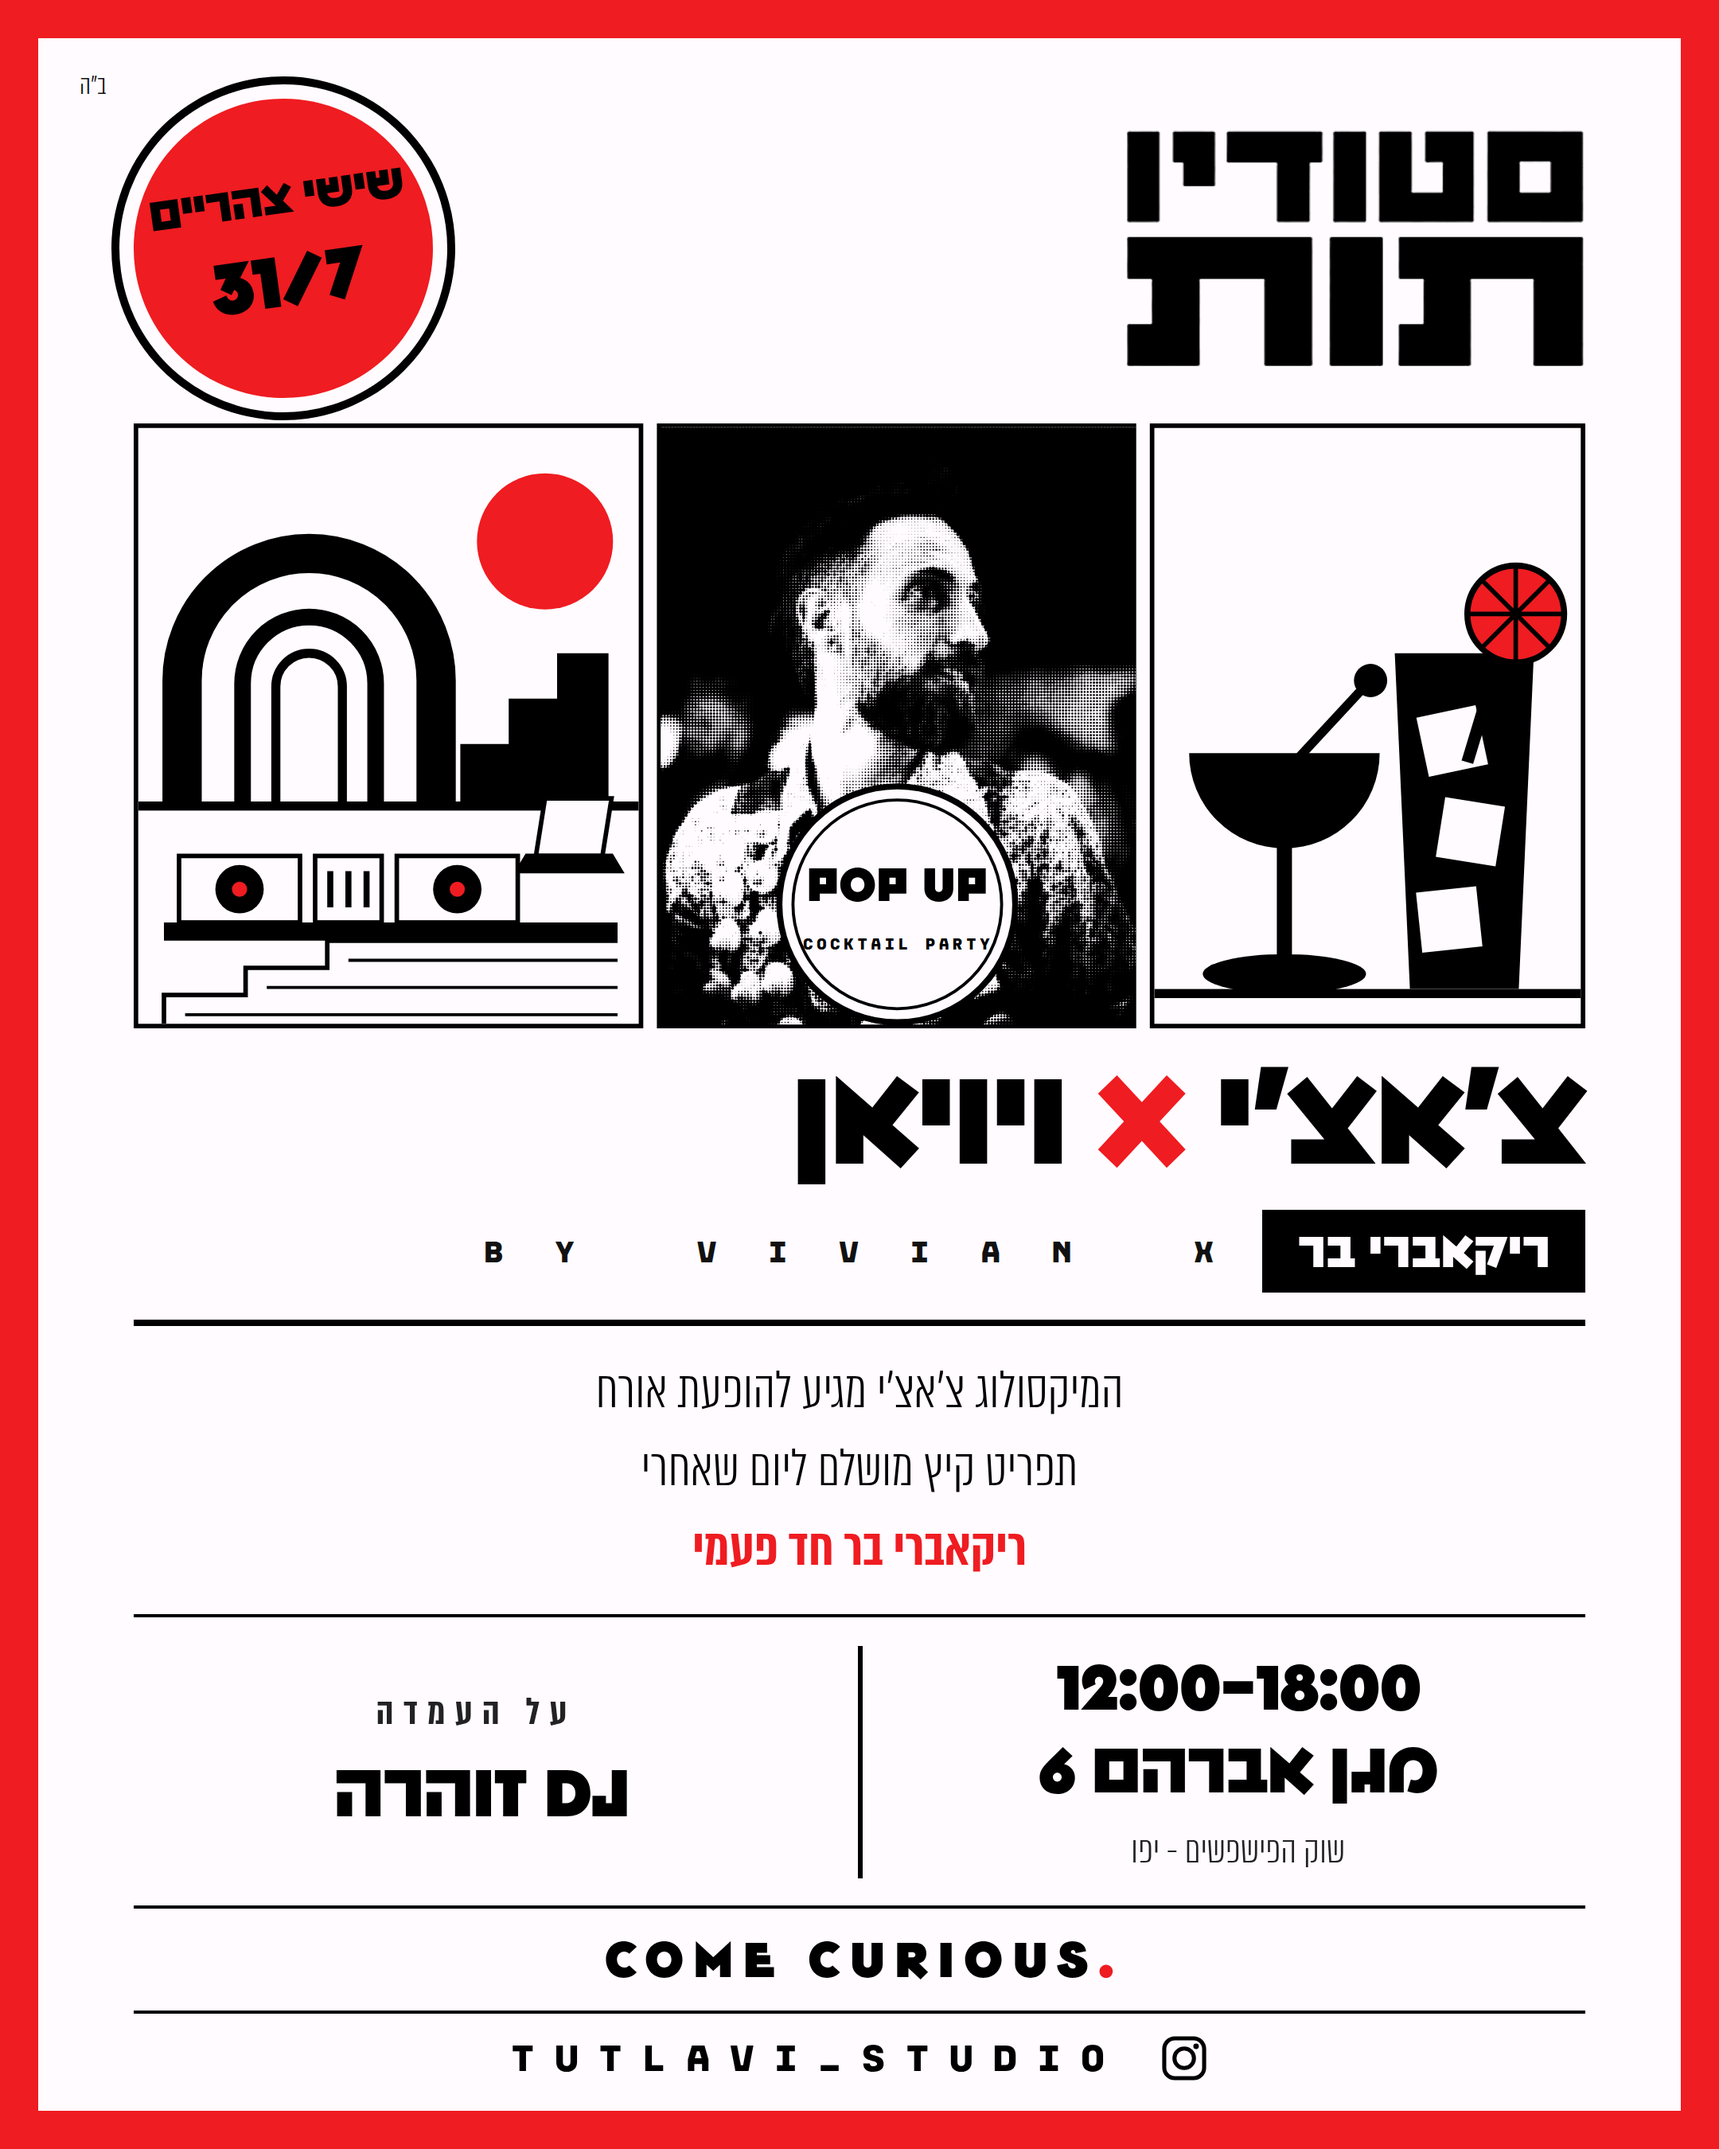
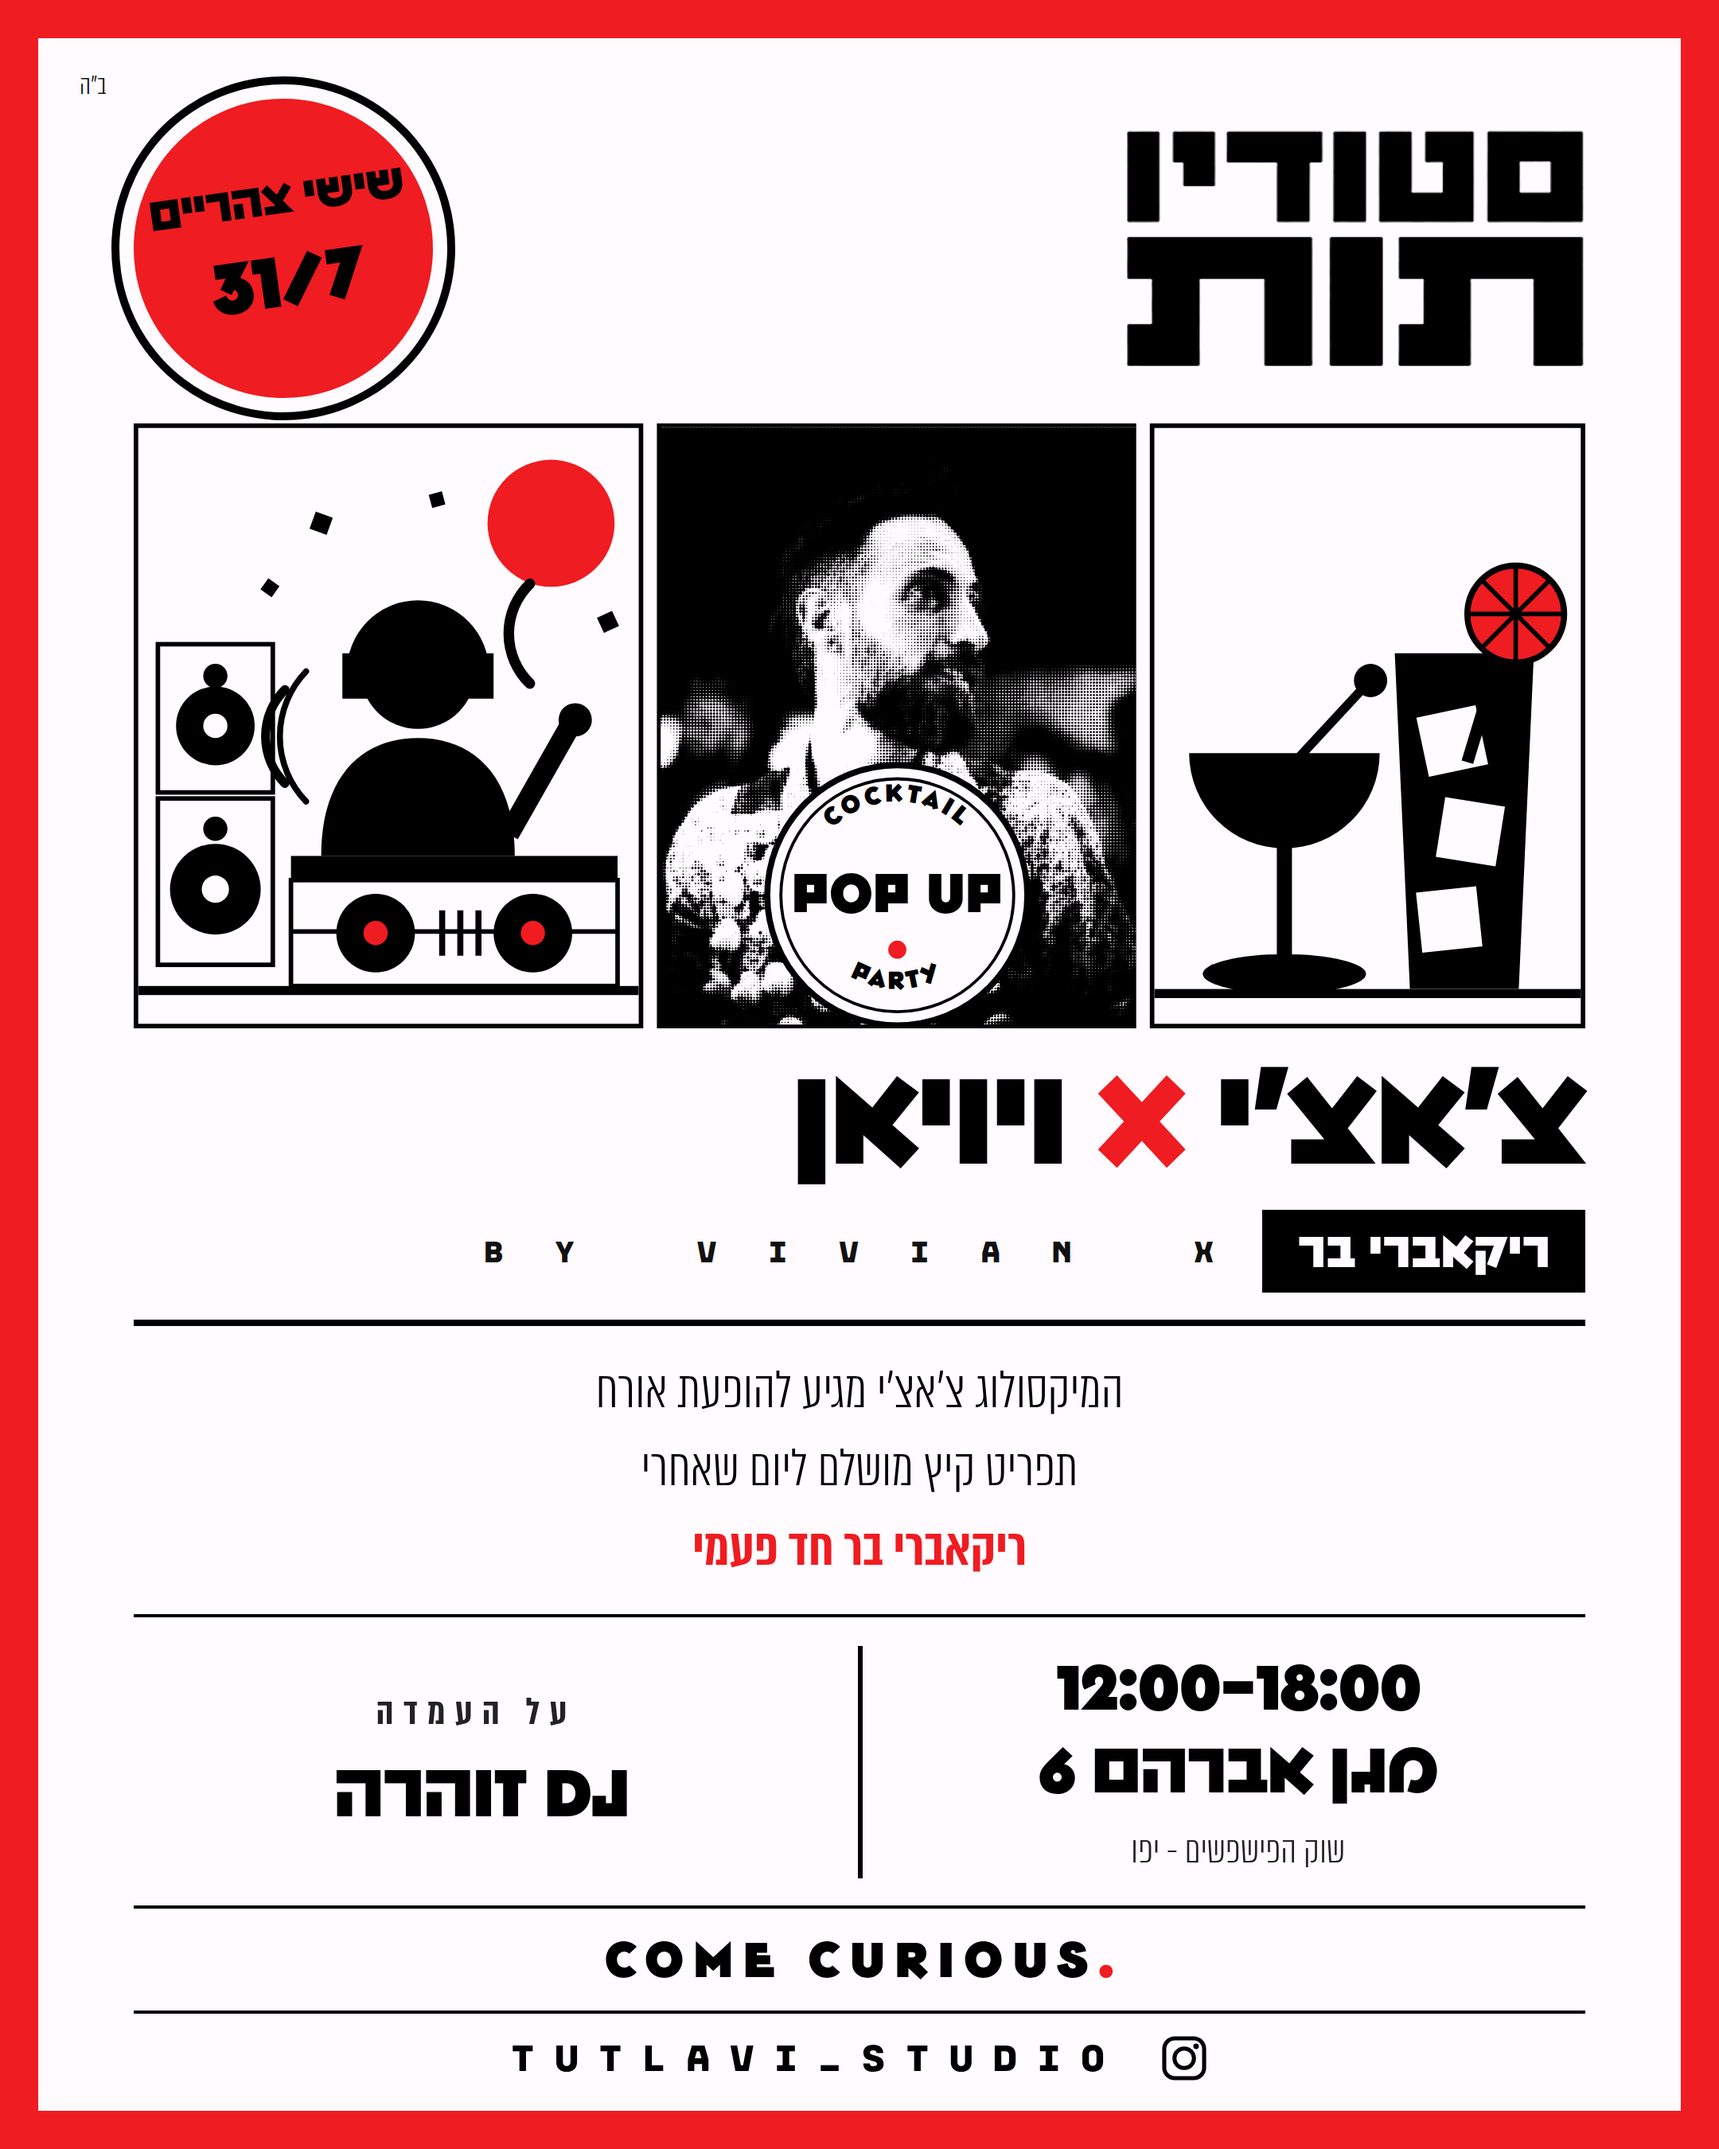
poster: party DJ booth, giant curved badge, two output variants
- replace the arch + deck row with an explicit DJ scene: speaker stack,
  headphoned silhouette with a raised hand, twin turntables on a booth,
  sound waves and confetti
- badge text is now set on arcs (COCKTAIL over the top, PARTY under the
  bottom) with POP UP large in the middle
- illustrated variant clears the still-life behind the badge and blows
  the badge up to nearly the full panel
- one source renders both: default = portrait panel, .illus = badge panel
- drop the tones PNG now that the core palette is the chosen direction

Claude-Session: https://claude.ai/code/session_01AhfEANtPutTF2tRQEqNaFG

Changed region(s): [[0.062, 0.2178, 0.3722, 0.4667], [0.4343, 0.3422, 0.6204, 0.4978]]

diff --git a/media/brand/poster-chachi.html b/media/brand/poster-chachi.html
@@ -72,6 +72,11 @@
   .f-olive{fill:var(--olive)} .s-olive{stroke:var(--olive)}
   .f-deep{fill:var(--deep)}
 
+  /* middle-panel variants */
+  .v-illus{display:none}
+  .poster.illus .v-photo{display:none}
+  .poster.illus .v-illus{display:inline}
+
   /* optional run: riso tones (clay + bottle green) */
   .poster.tones{ --clay:#c2603c; --olive:#3f6b52; --deep:#264234; }
   .poster.tones .lede b{color:var(--clay)}
@@ -93,56 +98,102 @@
       <rect x="673.5" y="1.5" width="285" height="397"/>
     </g>
 
-    <!-- ================= LEFT PANEL: arch · red sun · stairs · DJ booth ================= -->
+    <!-- ================= LEFT PANEL: DJ booth ================= -->
     <clipPath id="cL"><rect x="3" y="3" width="331" height="394"/></clipPath>
     <g clip-path="url(#cL)">
-      <!-- red sun -->
-      <circle cx="272" cy="78" r="45" fill="#ef1c21"/>
-      <!-- concentric arch -->
-      <path d="M32 250 V170 a84 84 0 0 1 168 0 V250" fill="none" stroke="#000"     stroke-width="26"/>
-      <path class="s-clay" d="M72 250 V172 a44 44 0 0 1  88 0 V250" fill="none" stroke="#c2603c" stroke-width="11"/>
-      <path class="s-olive" d="M94 250 V174 a22 22 0 0 1  44 0 V250" fill="none" stroke="#3f6b52" stroke-width="6"/>
-      <!-- clay stairs -->
-      <path class="f-clay" d="M216 250 V212 h32 V182 h32 V152 h34 V250 Z" fill="#c2603c"/>
-      <!-- upper floor -->
-      <rect x="3" y="250" width="331" height="6" fill="#000"/>
+      <!-- red sun / disco light -->
+      <circle cx="276" cy="66" r="42" fill="#ef1c21"/>
 
-      <!-- ---- DJ booth ---- -->
-      <!-- laptop -->
-      <g stroke="#000" stroke-width="3">
-        <path d="M266 286 L310 286 L316 248 L272 248 Z" fill="#fffbff"/>
-        <path class="f-olive" d="M260 286 L316 286 L322 296 L254 296 Z" fill="#3f6b52"/>
+      <!-- speaker stack -->
+      <g stroke="#000" stroke-width="3" fill="#fffbff">
+        <rect x="16" y="146" width="76" height="98"/>
+        <rect x="16" y="248" width="76" height="110"/>
       </g>
-      <!-- deck 1 -->
-      <g stroke="#000" stroke-width="3">
-        <rect x="30" y="286" width="80" height="44" fill="#fffbff"/>
-        <rect x="120" y="286" width="44" height="44" fill="#fffbff"/>
-        <rect x="174" y="286" width="80" height="44" fill="#fffbff"/>
+      <circle cx="54" cy="200" r="26" fill="#000"/><circle cx="54" cy="200" r="8" fill="#fffbff"/>
+      <circle cx="54" cy="167" r="8"  fill="#000"/>
+      <circle cx="54" cy="308" r="30" fill="#000"/><circle cx="54" cy="308" r="9" fill="#fffbff"/>
+      <circle cx="54" cy="268" r="8"  fill="#000"/>
+
+      <!-- DJ silhouette behind the booth -->
+      <path d="M124 286 C124 232 152 208 188 208 C224 208 252 232 252 286 Z" fill="#000"/>
+      <path d="M242 268 L284 194 L296 201 L254 275 Z" fill="#000"/>
+      <circle cx="292" cy="196" r="11" fill="#000"/>
+      <circle cx="188" cy="164" r="38" fill="#000"/>
+      <path d="M146 164 a42 42 0 0 1 84 0" fill="none" stroke="#000" stroke-width="10"/>
+      <rect x="138" y="152" width="18" height="30" fill="#000"/>
+      <rect x="220" y="152" width="18" height="30" fill="#000"/>
+
+      <!-- sound waves -->
+      <g fill="none" stroke="#000" stroke-linecap="round">
+        <path d="M262 172 a46 46 0 0 1 0 -66" stroke-width="7"/>
+        <path d="M280 186 a66 66 0 0 0 0 -94" stroke-width="5" opacity="0"/>
+        <path d="M100 176 a44 44 0 0 0 0 62" stroke-width="6"/>
+        <path d="M114 164 a62 62 0 0 0 0 86" stroke-width="4"/>
       </g>
-      <circle cx="70"  cy="308" r="16" fill="#000"/><circle cx="70"  cy="308" r="5" fill="#ef1c21"/>
-      <circle cx="214" cy="308" r="16" fill="#000"/><circle cx="214" cy="308" r="5" fill="#ef1c21"/>
-      <g class="s-clay" stroke="#c2603c" stroke-width="4"><path class="s-clay" d="M130 296 v24 M142 296 v24 M154 296 v24"/></g>
-      <!-- booth front -->
-      <rect x="20" y="330" width="300" height="12" fill="#000"/>
-      <!-- stacked steps -->
-      <path d="M320 342 H128 V360 H74 V378 H20 V397" fill="none" stroke="#000" stroke-width="3"/>
-      <g stroke="#000" stroke-width="2">
-        <path d="M320 355 H142 M320 373 H88 M320 391 H34"/>
+
+      <!-- booth -->
+      <rect x="104" y="286" width="216" height="16" fill="#000"/>
+      <rect x="104" y="302" width="216" height="70" fill="#fffbff" stroke="#000" stroke-width="3"/>
+      <g stroke="#000" stroke-width="3"><path d="M104 336 H320"/></g>
+      <!-- turntable on the booth face -->
+      <circle cx="160" cy="337" r="26" fill="#000"/><circle cx="160" cy="337" r="8" fill="#ef1c21"/>
+      <circle cx="264" cy="337" r="26" fill="#000"/><circle cx="264" cy="337" r="8" fill="#ef1c21"/>
+      <g class="s-clay" stroke="#c2603c" stroke-width="4"><path d="M204 322 v30 M216 322 v30 M228 322 v30"/></g>
+
+      <!-- confetti -->
+      <g fill="#000">
+        <rect x="118" y="60"  width="12" height="12" transform="rotate(20 124 66)"/>
+        <rect x="196" y="46"  width="9"  height="9"  transform="rotate(-15 200 50)"/>
+        <rect x="86"  y="104" width="9"  height="9"  transform="rotate(35 90 108)"/>
+        <rect x="308" y="126" width="11" height="11" transform="rotate(-25 313 131)"/>
       </g>
+
+      <!-- floor -->
+      <rect x="3" y="372" width="331" height="6" fill="#000"/>
     </g>
 
-    <!-- ================= MIDDLE PANEL: צ'אצ'י — halftone portrait ================= -->
+    <!-- ================= MIDDLE PANEL ================= -->
     <clipPath id="cM"><rect x="348.5" y="2.5" width="314" height="395"/></clipPath>
-    <g clip-path="url(#cM)">
-      <image href="chachi-halftone.png" x="346" y="0" width="320" height="400"
-             preserveAspectRatio="xMidYMid slice"/>
+
+    <!-- version A: halftone portrait + small badge -->
+    <g class="v-photo">
+      <g clip-path="url(#cM)">
+        <image href="chachi-halftone.png" x="346" y="0" width="320" height="400"
+               preserveAspectRatio="xMidYMid slice"/>
+      </g>
+      <g transform="translate(505 312)">
+        <circle r="86" fill="#fffbff" stroke="#000" stroke-width="4"/>
+        <circle r="77" fill="none" stroke="#000" stroke-width="2"/>
+        <path id="arcTopS" d="M -62 0 A 62 62 0 0 1 62 0" fill="none"/>
+        <path id="arcBotS" d="M -62 0 A 62 62 0 0 0 62 0" fill="none"/>
+        <text font-family="Tut" font-weight="900" font-size="19" letter-spacing="2" fill="#000">
+          <textPath href="#arcTopS" startOffset="50%" text-anchor="middle">COCKTAIL</textPath>
+        </text>
+        <text font-family="Tut" font-weight="900" font-size="19" letter-spacing="2" fill="#000">
+          <textPath href="#arcBotS" startOffset="50%" text-anchor="middle" side="right">PARTY</textPath>
+        </text>
+        <text y="11" text-anchor="middle" font-family="Tut" font-weight="900" font-size="42" fill="#000">POP UP</text>
+        <circle cx="0" cy="36" r="6" fill="#ef1c21"/>
+      </g>
     </g>
-    <!-- badge, sitting over the lower third of the portrait -->
-    <g transform="translate(505 318)">
-      <circle r="78" fill="#fffbff" stroke="#000" stroke-width="4"/>
-      <circle r="69" fill="none" stroke="#000" stroke-width="2"/>
-      <text y="-2" text-anchor="middle" font-family="Tut" font-weight="900" font-size="36" fill="#000">POP UP</text>
-      <text class="f-clay" y="30" text-anchor="middle" font-family="TutMono" font-size="12" letter-spacing="1.2" fill="#c2603c">COCKTAIL PARTY</text>
+
+    <!-- version B: giant badge on a clean panel -->
+    <g class="v-illus">
+      <rect x="349" y="372" width="313" height="6" fill="#000"/>
+      <g transform="translate(505 190)">
+        <circle r="151" fill="#fffbff" stroke="#000" stroke-width="5"/>
+        <circle r="138" fill="none" stroke="#000" stroke-width="2"/>
+        <path id="arcTop" d="M -112 0 A 112 112 0 0 1 112 0" fill="none"/>
+        <path id="arcBot" d="M -112 0 A 112 112 0 0 0 112 0" fill="none"/>
+        <text font-family="Tut" font-weight="900" font-size="34" letter-spacing="3" fill="#000">
+          <textPath href="#arcTop" startOffset="50%" text-anchor="middle">COCKTAIL</textPath>
+        </text>
+        <text font-family="Tut" font-weight="900" font-size="34" letter-spacing="3" fill="#000">
+          <textPath href="#arcBot" startOffset="50%" text-anchor="middle" side="right">PARTY</textPath>
+        </text>
+        <text y="18" text-anchor="middle" font-family="Tut" font-weight="900" font-size="74" fill="#000">POP UP</text>
+        <circle cx="0" cy="62" r="9" fill="#ef1c21"/>
+      </g>
     </g>
 
     <!-- ================= RIGHT PANEL: coupe + highball ================= -->
